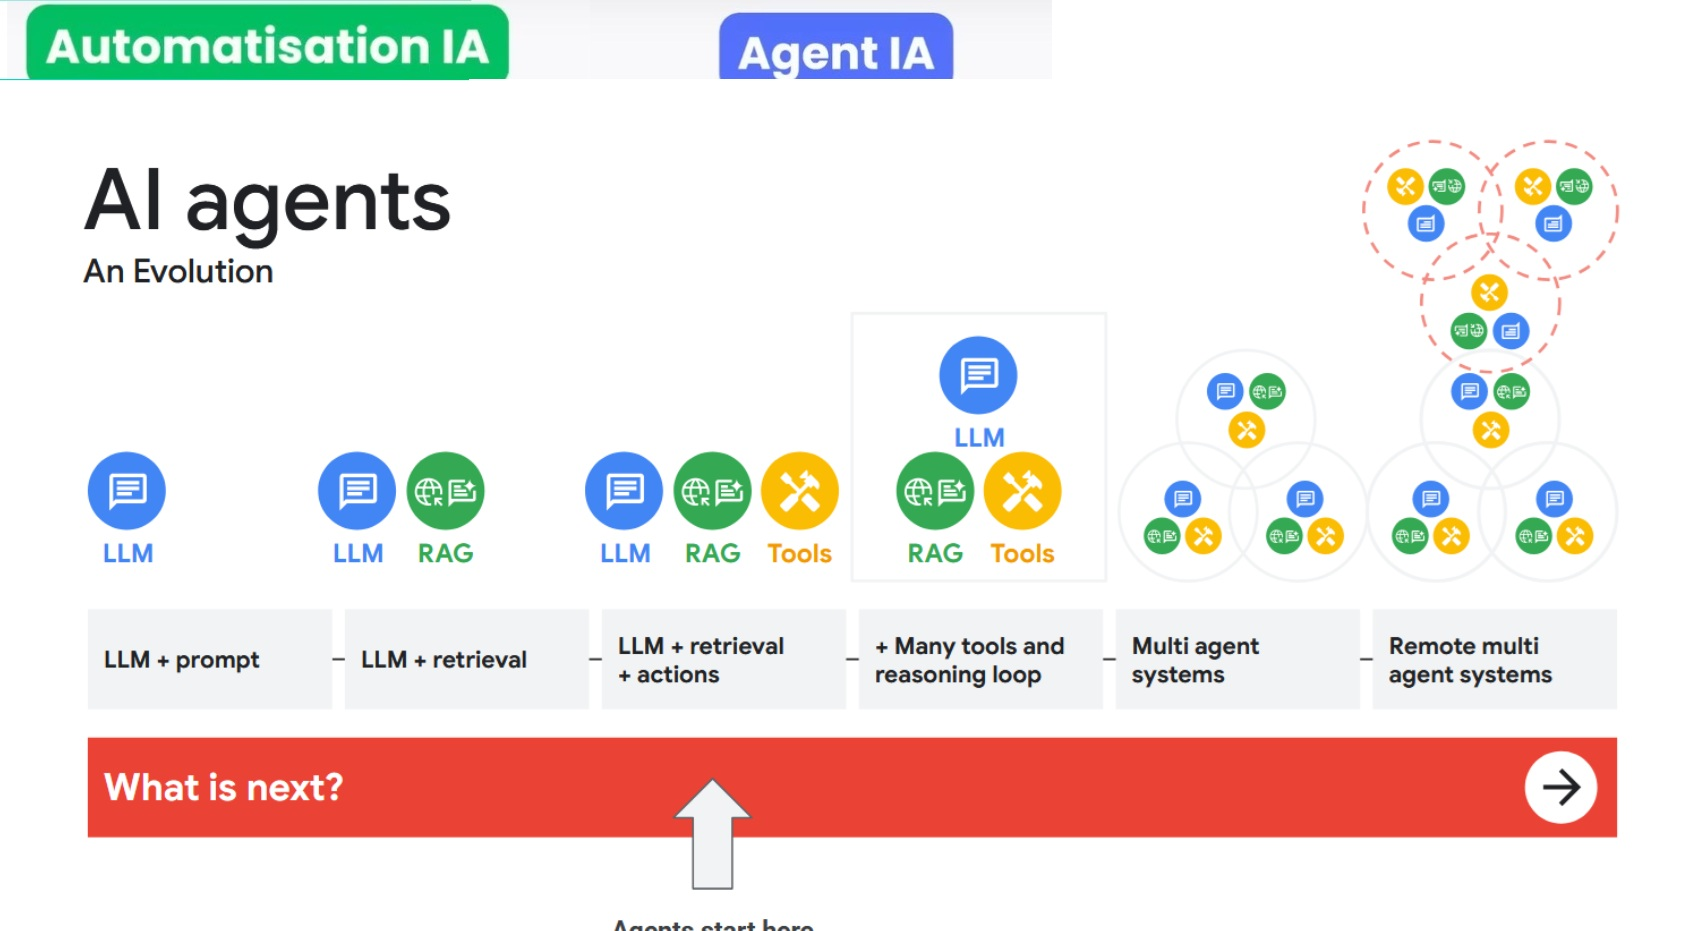
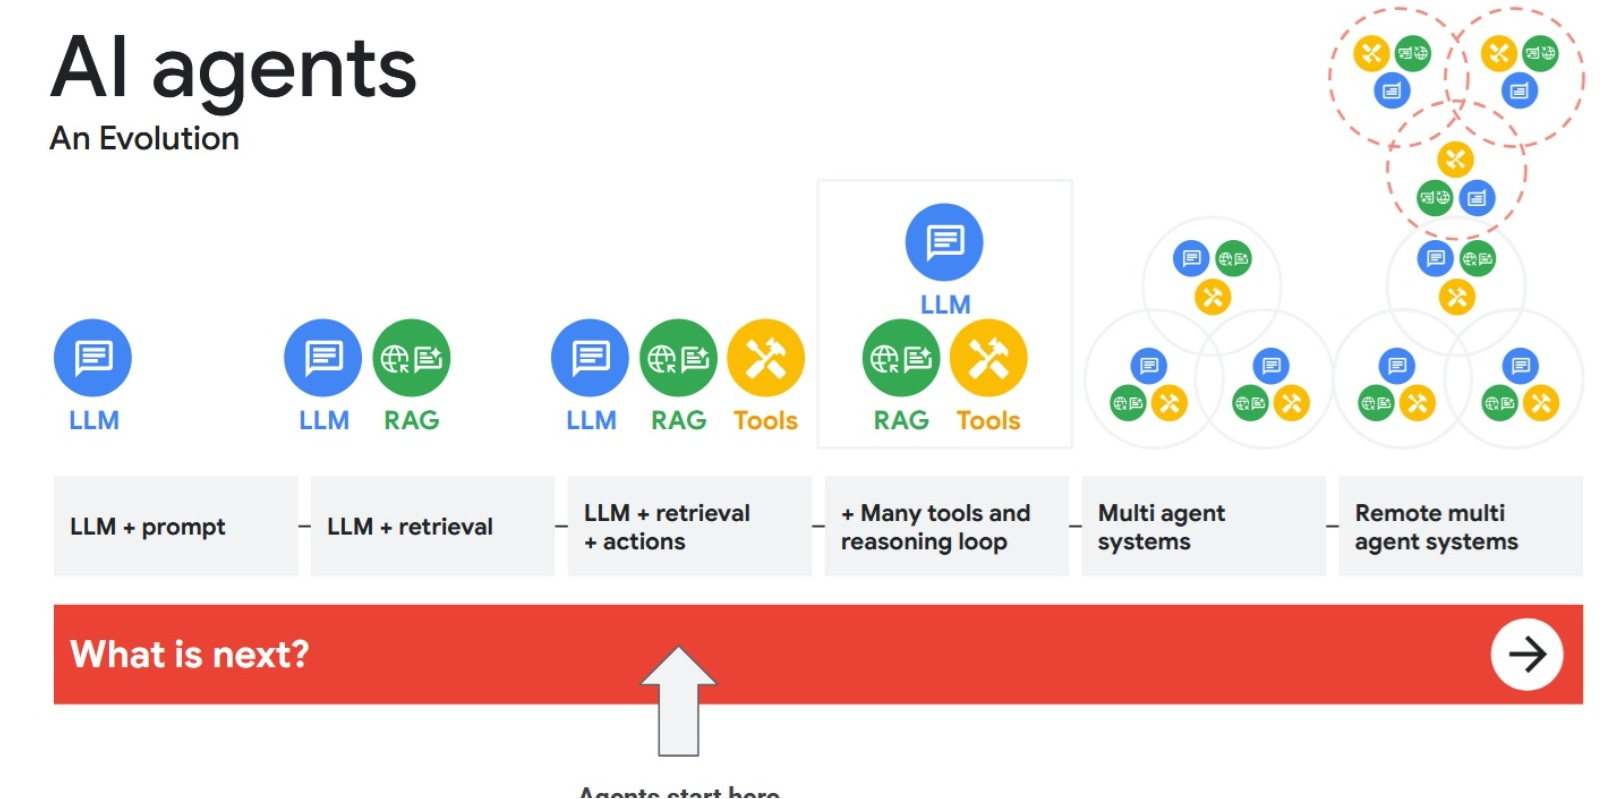
docs: COURS3 : add illustrations

diff --git a/COURS/MODULE_3_Automatisation-structuration.md b/COURS/MODULE_3_Automatisation-structuration.md
@@ -33,6 +33,10 @@ Ne plus voir l'IA comme un gadget, mais comme le système d'exploitation de votr
 *Figure 3.1 : La trajectoire d'adoption des agents IA au sein des équipes produit*
 
 
+![Automatisation vs Agents](../res/automateVsAgents.jpg)
+*Figure 3.4 : Transition de l'automatisation classique vers les agents d'IA autonomes*
+
+
 ---
 
 ## 2. Niveau 1 : Prompts Réutilisables et Assistants (Custom GPTs)
@@ -81,10 +85,9 @@ Connecter les outils entre eux pour que l'information circule sans copier-coller
 
 Il existe aujourd'hui plusieurs acteurs majeurs pour automatiser vos tâches, du plus simple au plus puissant :
 
-
-| Outil       | Description                                                                                                                                                                                                                                                                            |
-| ----------- | -------------------------------------------------------------------------------------------------------------------------------------------------------------------------------------------------------------------------------------------------------------------------------------- |
 | **Rovo**    | **"L'automatisation par l'IA"**. Une solution nouvelle génération pour la suite Atlassian (Jira, Confluence...) où l'IA est au cœur du flux.                                                                                                                                           |
+| ----------- | -------------------------------------------------------------------------------------------------------------------------------------------------------------------------------------------------------------------------------------------------------------------------------------- |
+| Outil       | Description                                                                                                                                                                                                                                                                            |
 | **Zapier**  | **"Si ceci, alors cela"**. Très linéaire et facile d'accès. Idéal pour débuter.                                                                                                                                                                                                        |
 | **Make**    | **"Programmation visuelle"**. Permet des scénarios complexes avec des boucles et des conditions.                                                                                                                                                                                       |
 | **Gumloop** | **"L'automatisation par l'IA"**. Une solution nouvelle génération orientée vers le traitement des données et des tâches complexes par LLM.                                                                                                                                             |
@@ -93,6 +96,28 @@ Il existe aujourd'hui plusieurs acteurs majeurs pour automatiser vos tâches, du
 
 ![Gumloop vs Make](../res/Gumloop_vs_make.jpg)
 *Figure 3.2 : Comparatif d'outils d'automatisation (Gumloop vs Make)*
+
+
+
+
+![N8N vs Make vs Zapier](../res/vs_Make_zappier_N8N.jpg)
+*Figure 3.2bis : Comparatif N8N, Make, Zapier*
+
+
+![Exemple  Zapier](../res/1-zappier_sample.jpg)
+*Figure 3.x : look Zapier*
+ 
+![Exemple  Make](../res/2-make_sample.jpg)
+*Figure 3.x : look Make*
+ 
+ 
+![Exemple  N8N](../res/3-n8n_sample.jpg)
+*Figure 3.x : look N8N*
+
+ 
+![Exemple  PowerAutomate](../res/4-powerAutomate_sample.jpg)
+*Figure 3.x : look PowerAutomate*
+
 
 ![Paysage iPaaS](../res/IPAAS.jpg)
 *Figure 3.3 : Positionnement des plateformes d'intégration iPaaS*
@@ -111,9 +136,6 @@ Contrairement aux outils d'automatisation traditionnels (Zapier/Make) qui traite
 4. **Nœuds "Vector Store" (Base vectorielle)** : Permettent de faire du RAG (Retrieval-Augmented Generation) en connectant l'agent à une base de connaissances (PDF, Confluence, Notion) pour qu'il réponde à partir d'informations internes et fiables.
 
 Cette approche visuelle permet à un PO ou PM de concevoir de véritables prototypes d'agents IA fonctionnels en moins d'une heure, sans écrire une ligne de code, tout en gardant le contrôle sur la logique métier.
-
-![Automatisation vs Agents](../res/automateVsAgents.jpg)
-*Figure 3.4 : Transition de l'automatisation classique vers les agents d'IA autonomes*
 
 ### 3.3 Le protocole MCP (Model Context Protocol) et N8N
 
